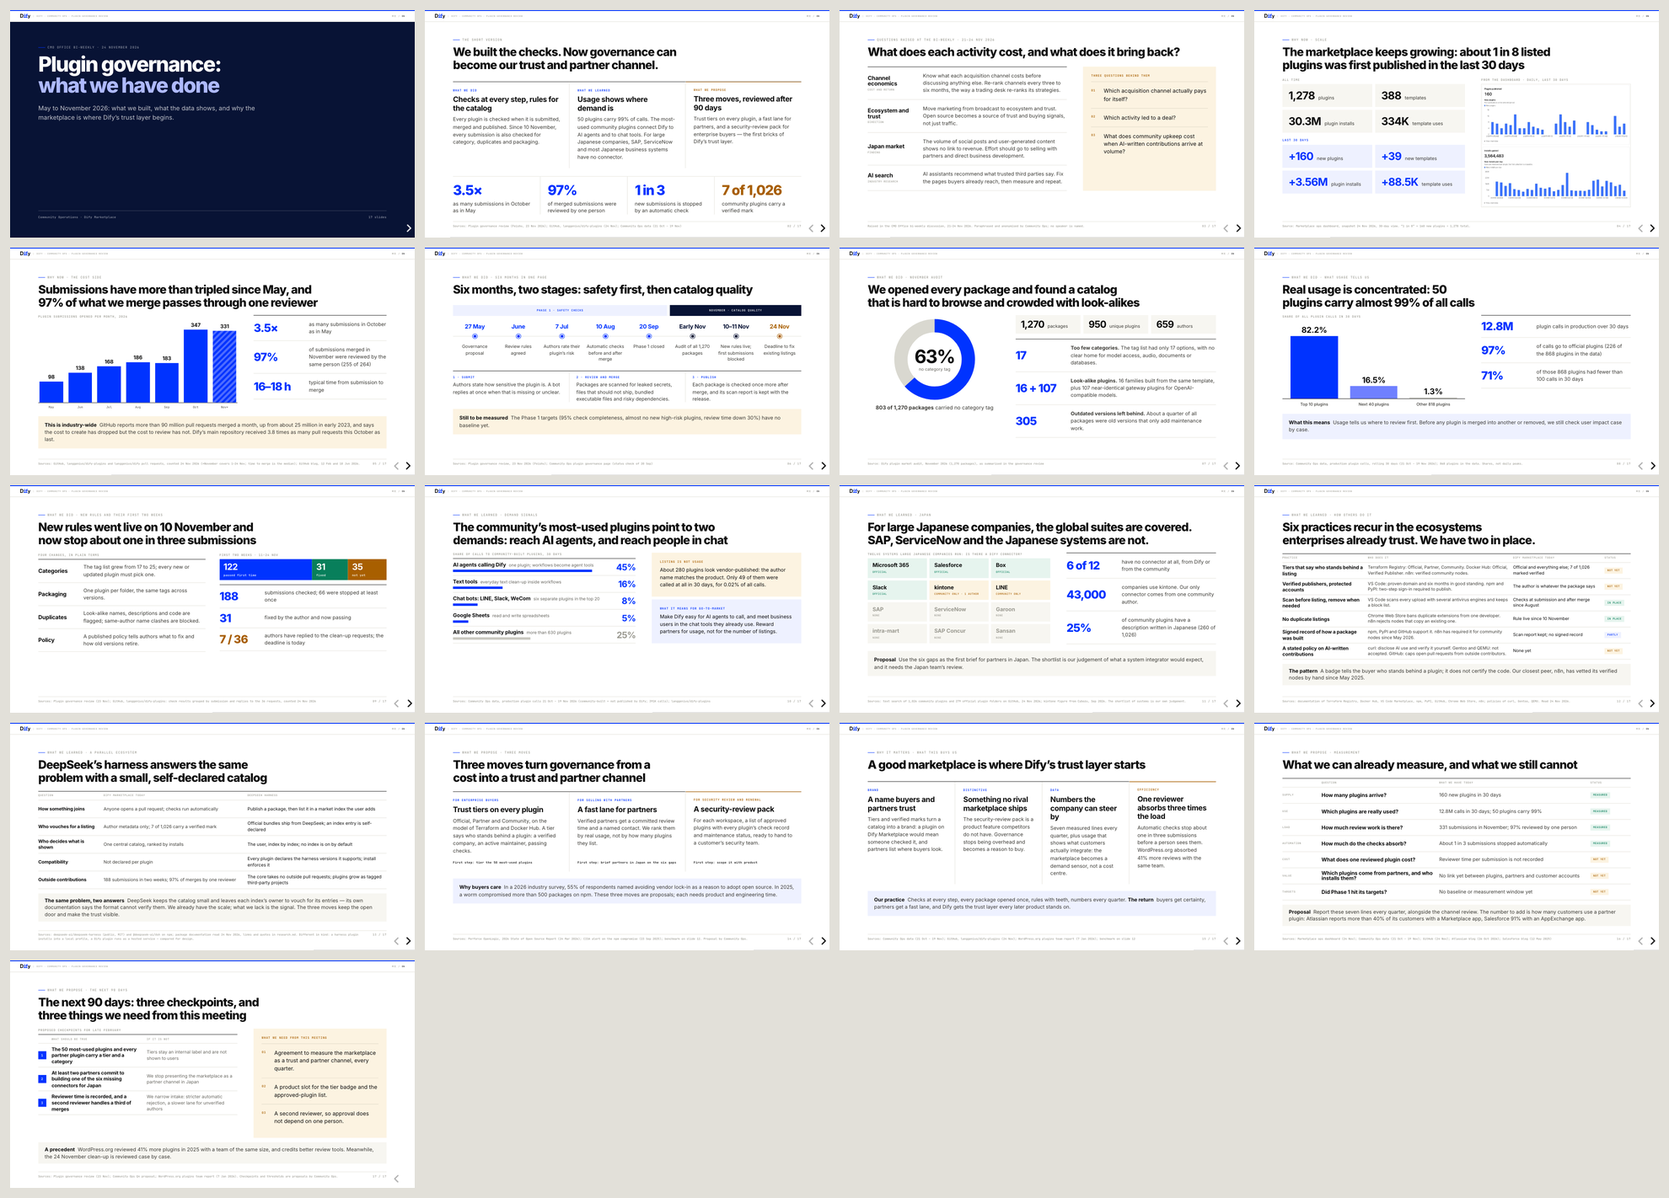
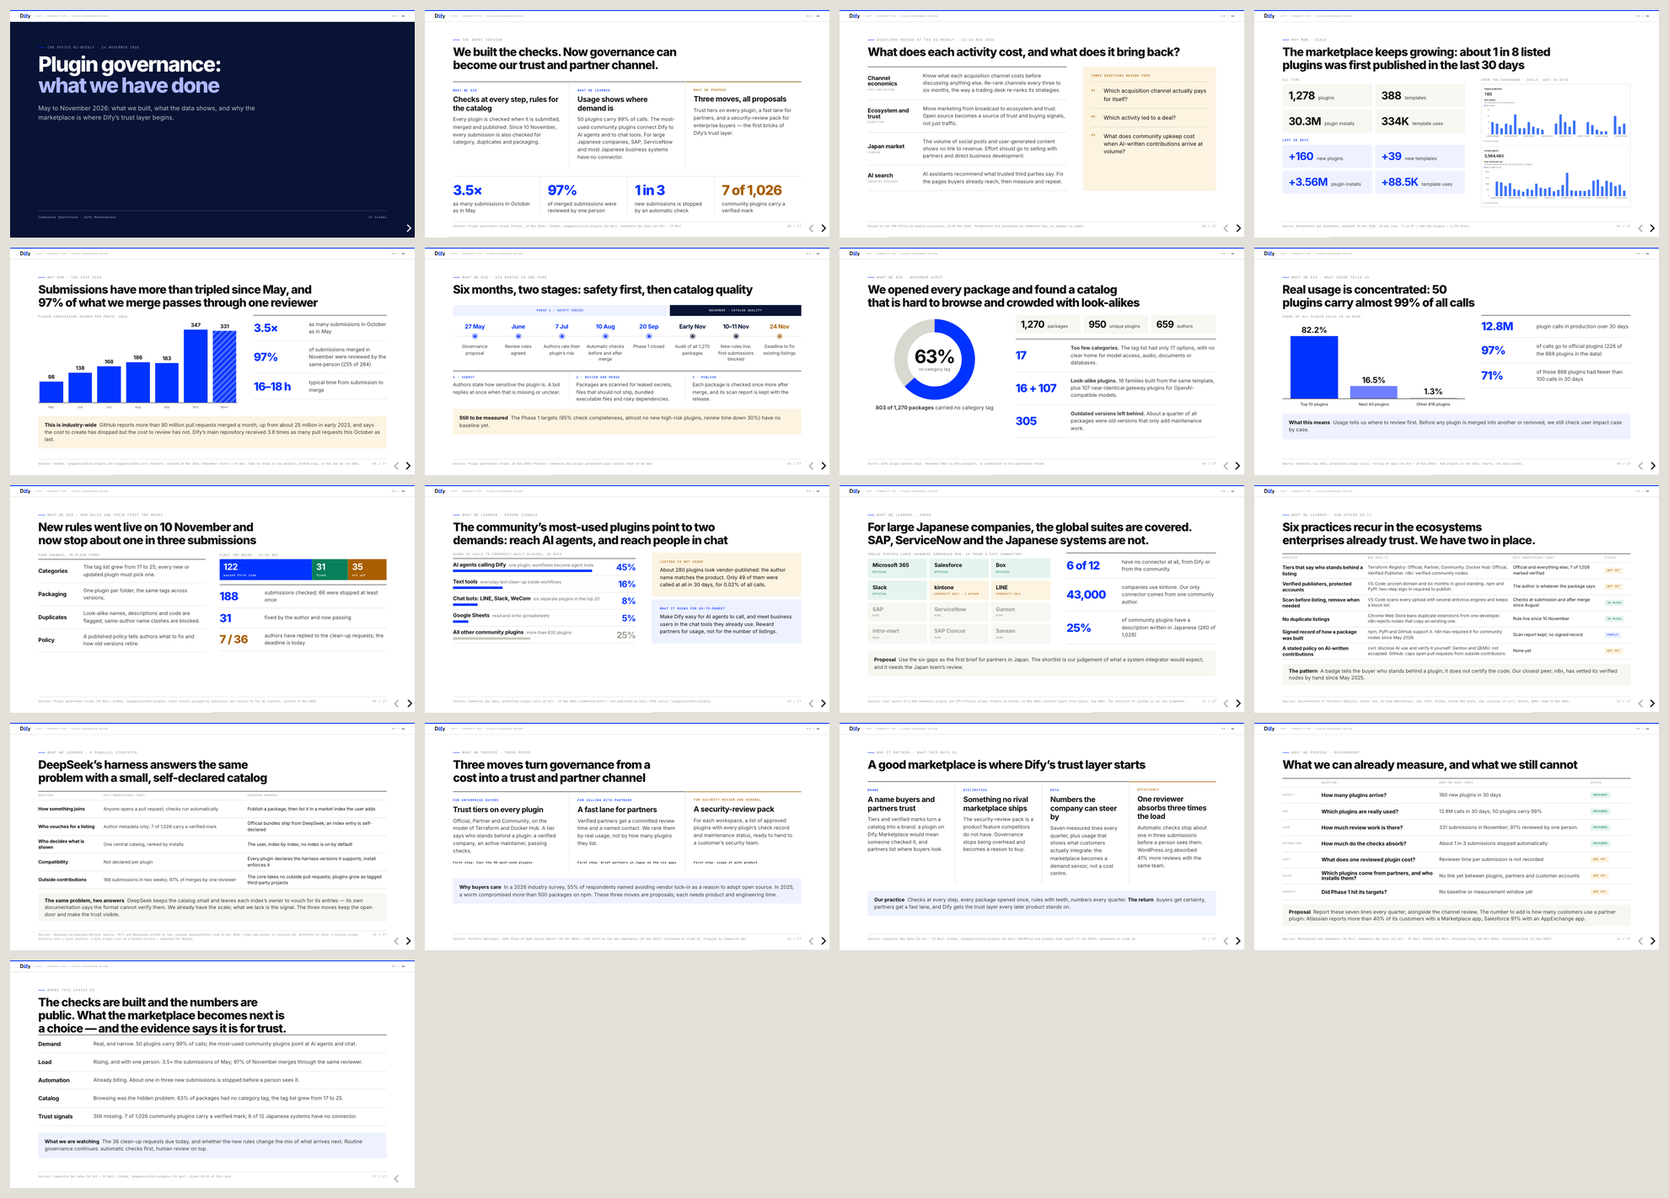
Close the deck with a statement and observations, not checkpoints and asks
Slide 17 no longer carries the 90-day checkpoints or the three asks. It is
now a statement — the checks are built, the numbers are public, and what the
marketplace becomes next is a choice the evidence points at trust — followed
by five observations (demand, load, automation, catalog, trust signals), each
traceable to an earlier slide, and a line on what we are watching next.

The summary slide no longer promises a 90-day review of the three moves; they
are presented as proposals, as they are.

Changed region(s): [[0.0, 0.8354, 0.2465, 0.9902], [0.4005, 0.0619, 0.4621, 0.1238]]

diff --git a/plugin-governance-review/index_en.html b/plugin-governance-review/index_en.html
@@ -39,7 +39,7 @@
       <div class="grid c3 panes">
         <div class="pane"><span class="label blue">What we did</span><strong>Checks at every step, rules for the catalog</strong><p>Every plugin is checked when it is submitted, merged and published. Since 10 November, every submission is also checked for category, duplicates and packaging.</p></div>
         <div class="pane"><span class="label blue">What we learned</span><strong>Usage shows where demand is</strong><p>50 plugins carry 99% of calls. The most-used community plugins connect Dify to AI agents and to chat tools. For large Japanese companies, SAP, ServiceNow and most Japanese business systems have no connector.</p></div>
-        <div class="pane amber"><span class="label amber">What we propose</span><strong>Three moves, reviewed after 90 days</strong><p>Trust tiers on every plugin, a fast lane for partners, and a security-review pack for enterprise buyers — the first bricks of Dify’s trust layer.</p></div>
+        <div class="pane amber"><span class="label amber">What we propose</span><strong>Three moves, all proposals</strong><p>Trust tiers on every plugin, a fast lane for partners, and a security-review pack for enterprise buyers — the first bricks of Dify’s trust layer.</p></div>
       </div>
       <div class="grid c4 stats">
         <div class="stat sm"><b>3.5×</b><span>as many submissions in October as in May</span></div>
@@ -306,25 +306,12 @@
 
     <!-- 17 -->
     <section data-slide-id="s17-next">
-      <div class="eyebrow">What we propose · The next 90 days</div>
-      <h2>The next 90 days: three checkpoints, and three things we need from this meeting</h2>
-      <div class="split s-60" style="margin-top:34px">
-        <div>
-          <span class="label">Proposed checkpoints for late February</span>
-          <div class="score" style="margin-top:14px"><div class="sc gate head"><span></span><span>What should be true</span><span>If it is not</span></div><div class="sc gate"><b class="gn">1</b><strong>The 50 most-used plugins and every partner plugin carry a tier and a category</strong><p>Tiers stay an internal label and are not shown to users</p></div><div class="sc gate"><b class="gn">2</b><strong>At least two partners commit to building one of the six missing connectors for Japan</strong><p>We stop presenting the marketplace as a partner channel in Japan</p></div><div class="sc gate"><b class="gn">3</b><strong>Reviewer time is recorded, and a second reviewer handles a third of merges</strong><p>We narrow intake: stricter automatic rejection, a slower lane for unverified authors</p></div></div>
-        </div>
-        <div class="box amber">
-          <span class="label amber">What we need from this meeting</span>
-          <ol class="pain">
-            <li>Agreement to measure the marketplace as a trust and partner channel, every quarter.</li>
-            <li>A product slot for the tier badge and the approved-plugin list.</li>
-            <li>A second reviewer, so approval does not depend on one person.</li>
-          </ol>
-        </div>
-      </div>
-      <div class="band tightband"><b>A precedent</b>&nbsp; WordPress.org reviewed 41% more plugins in 2025 with a team of the same size, and credits better review tools. Meanwhile, the 24 November clean-up is reviewed case by case.</div>
-      <div class="source-bar"><span>Sources: Plugin governance review (23 Nov); Community Ops Q4 proposal; WordPress.org plugins team report (7 Jan 2026). Checkpoints and thresholds are proposals by Community Ops.</span><span>17 / 17</span></div>
-      <aside class="notes">The checkpoints follow the same habit as the industry research shared at the bi-weekly: state what should be true in 90 days and what changes if it is not. The thresholds are starting points for discussion, not commitments. Routine governance continues through automatic checks plus human review. Bot pre-check and a cool-down for repeat offenders stay in requirements review; likes and ratings have simple limits today, and trusted ranking still needs its own evidence.</aside>
+      <div class="eyebrow">Where this leaves us</div>
+      <h2>The checks are built and the numbers are public. What the marketplace becomes next is a choice — and the evidence says it is for trust.</h2>
+      <div class="rows"><div class="row"><b>Demand</b><p>Real, and narrow. 50 plugins carry 99% of calls; the most-used community plugins point at AI agents and chat.</p></div><div class="row"><b>Load</b><p>Rising, and with one person. 3.5× the submissions of May; 97% of November merges through the same reviewer.</p></div><div class="row"><b>Automation</b><p>Already biting. About one in three new submissions is stopped before a person sees it.</p></div><div class="row"><b>Catalog</b><p>Browsing was the hidden problem. 63% of packages had no category tag; the tag list grew from 17 to 25.</p></div><div class="row"><b>Trust signals</b><p>Still missing. 7 of 1,026 community plugins carry a verified mark; 6 of 12 Japanese systems have no connector.</p></div></div>
+      <div class="band tint"><b>What we are watching</b>&nbsp; The 36 clean-up requests due today, and whether the new rules change the mix of what arrives next. Routine governance continues: automatic checks first, human review on top.</div>
+      <div class="source-bar"><span>Sources: Community Ops data (21 Oct – 19 Nov); GitHub, langgenius/dify-plugins (24 Nov); slides 05–13 of this deck</span><span>17 / 17</span></div>
+      <aside class="notes">The deck closes without asks on purpose: a statement, then five observations, each traceable to an earlier slide — demand (08, 10), load (05), automation (09), the catalog audit (07), trust signals (11, 12). What we are watching next: the 36 author clean-up requests due 24 Nov, and whether the rules change the mix of new submissions. The three moves on slide 14 remain proposals; nothing on this slide is scoped, staffed or agreed.</aside>
     </section>
 
   </div></div>

diff --git a/plugin-governance-review/index.html b/plugin-governance-review/index.html
@@ -39,7 +39,7 @@
       <div class="grid c3 panes">
         <div class="pane"><span class="label blue">做了什么</span><strong>每个环节有检查，目录有规则</strong><p>插件在提交、合并、发布三个环节都要过检查。11 月 10 日起，每次提交还要过分类、查重、打包三道规则。</p></div>
         <div class="pane"><span class="label blue">看到了什么</span><strong>调用数据告诉我们需求在哪</strong><p>50 个插件承担了 99% 的调用。社区里用得最多的插件，是把 Dify 接到 AI Agent 和聊天工具上的。面向日本大企业，SAP、ServiceNow 和多数日本本土系统还没有连接器。</p></div>
-        <div class="pane amber"><span class="label amber">提议做什么</span><strong>三个动作，90 天后回看</strong><p>给每个插件标上信任层级，给伙伴开一条快速通道，给企业买家备一份安全评审材料包——Dify 信任层的第一批砖。</p></div>
+        <div class="pane amber"><span class="label amber">提议做什么</span><strong>三个动作，都是提议</strong><p>给每个插件标上信任层级，给伙伴开一条快速通道，给企业买家备一份安全评审材料包——Dify 信任层的第一批砖。</p></div>
       </div>
       <div class="grid c4 stats">
         <div class="stat sm"><b>3.5×</b><span>10 月的提交量是 5 月的 3.5 倍</span></div>
@@ -306,25 +306,12 @@
 
     <!-- 17 -->
     <section data-slide-id="s17-next">
-      <div class="eyebrow">提议做什么 · 接下来 90 天</div>
-      <h2>接下来 90 天：三个检验点，以及需要这次会议定下的三件事</h2>
-      <div class="split s-60" style="margin-top:34px">
-        <div>
-          <span class="label">提议的检验点，2 月下旬回看</span>
-          <div class="score" style="margin-top:14px"><div class="sc gate head"><span></span><span>应该成立的事</span><span>如果不成立</span></div><div class="sc gate"><b class="gn">1</b><strong>调用量前 50 的插件和所有伙伴插件都有层级和分类</strong><p>层级只作内部标签，不对用户展示</p></div><div class="sc gate"><b class="gn">2</b><strong>至少两家伙伴承诺开发日本六个空缺连接器中的一个</strong><p>在日本不再把市场当作伙伴渠道来讲</p></div><div class="sc gate"><b class="gn">3</b><strong>审核工时有记录，第二位审核人承担三分之一的合并</strong><p>收紧入口：更严格的自动拒绝，未核实作者走慢通道</p></div></div>
-        </div>
-        <div class="box amber">
-          <span class="label amber">需要这次会议定下的事</span>
-          <ol class="pain">
-            <li>同意把市场当作信任渠道和伙伴渠道来度量，每季度一次。</li>
-            <li>给层级徽章和“已批准插件”清单排一个产品档期。</li>
-            <li>增加第二位审核人，让审批不再只靠一个人。</li>
-          </ol>
-        </div>
-      </div>
-      <div class="band tightband"><b>可参照的先例</b>&nbsp; WordPress.org 2025 年多审了 41% 的插件，团队规模没变，官方归功于工具改进。11 月 24 日到期的整改正在逐条复核。</div>
-      <div class="source-bar"><span>来源：插件治理阶段回顾（11 月 23 日）；Community Ops Q4 提案；WordPress.org 插件团队年度报告（2026 年 1 月 7 日）。检验点和阈值是 Community Ops 的提议。</span><span>17 / 17</span></div>
-      <aside class="notes">检验点的写法沿用双周会上那份行业调研的习惯：写明 90 天后应该成立什么、不成立时改什么。阈值是讨论的起点，不是承诺。日常治理继续走自动检查加人工审核。机器人预检查和重复违规作者冷却仍在需求评审阶段；Like / Rating 已有简单限制，可信排名仍需各自的证据。</aside>
+      <div class="eyebrow">收尾</div>
+      <h2>检查已经建好，数字已经摆在外面。这个市场接下来是什么，取决于我们怎么定——而证据指向信任。</h2>
+      <div class="rows"><div class="row"><b>需求</b><p>真实而集中。50 个插件承担 99% 的调用；社区里用得最多的，指向 AI Agent 和聊天工具。</p></div><div class="row"><b>审核量</b><p>在涨，而且压在一个人身上。提交量是 5 月的 3.5 倍；11 月合并的 97% 出自同一位审核人。</p></div><div class="row"><b>自动化</b><p>已经开始咬住。约三分之一的新提交，在被人看到之前就被拦下。</p></div><div class="row"><b>目录</b><p>“难找”曾是隐性问题。63% 的包没有分类标签；标签表已从 17 个扩到 25 个。</p></div><div class="row"><b>信任信号</b><p>仍然缺失。1,026 个社区插件里只有 7 个带认证标记；日本 12 个常用系统里 6 个没有连接器。</p></div></div>
+      <div class="band tint"><b>接下来在看什么</b>&nbsp; 今天到期的 36 条整改请求，以及新规则会不会改变新提交的构成。日常治理不变：先过自动检查，再上人工审核。</div>
+      <div class="source-bar"><span>来源：Community Ops 数据（10 月 21 日–11 月 19 日）；GitHub，langgenius/dify-plugins（11 月 24 日）；本 deck 第 05–13 页</span><span>17 / 17</span></div>
+      <aside class="notes">这一页刻意不提要求：一个结论，加五条观察，每条都能追溯到前面的页——需求（08、10），审核量（05），自动化（09），目录审计（07），信任信号（11、12）。接下来在看：11 月 24 日到期的 36 条作者整改请求，以及规则会不会改变新提交的构成。第 14 页的三个动作仍然是提议；这一页没有任何一项已定范围、已排人或已获同意。</aside>
     </section>
 
   </div></div>

diff --git a/plugin-governance-review/source-map.md b/plugin-governance-review/source-map.md
@@ -10,16 +10,16 @@
 
 | Slides | Source | Use | Boundary |
 |---|---|---|---|
-| `s02`, `s06`, `s07`, `s09`, `s17` | Plugin governance review, Feishu, 23 Nov 2026 | Timeline, Phase 1 deliverables, audit findings, November rules | Internal review document; figures are as stated there. |
-| `s03`, `s14`, `s16`, `s17` | CMO Office Bi-Weekly group discussion and attached research, 21–24 Nov 2026 | The questions raised, and the reasoning behind each proposed move | Paraphrased and anonymised by Community Ops: no speaker or team is named, and no claim is made about what leadership wants. |
+| `s02`, `s06`, `s07`, `s09` | Plugin governance review, Feishu, 23 Nov 2026 | Timeline, Phase 1 deliverables, audit findings, November rules | Internal review document; figures are as stated there. |
+| `s03`, `s14`, `s16` | CMO Office Bi-Weekly group discussion and attached research, 21–24 Nov 2026 | The questions raised, and the reasoning behind each proposed move | Paraphrased and anonymised by Community Ops: no speaker or team is named, and no claim is made about what leadership wants. |
 | `s04` | Marketplace ops dashboard, snapshot 24 Nov 2026, 30-day view | Totals and 30-day gains | Read from a screenshot. "1 in 8" is derived. |
-| `s02`, `s08`, `s10`, `s14` | Community Ops data: production plugin calls, 21 Oct – 19 Nov 2026 | 12.83M calls, 868 plugins, concentration, community share | Rolling 30-day window; the last day is partial. Read shares, not daily peaks. |
-| `s02`, `s05`, `s09`, `s16` | GitHub, [langgenius/dify-plugins](https://github.com/langgenius/dify-plugins) and [langgenius/dify](https://github.com/langgenius/dify), counted 24 Nov 2026 | Submissions per month, reviewer concentration, time to merge, check outcomes, replies to requests | See counting rules below. |
-| `s02`, `s10`, `s11`, `s12` | Package metadata of 1,026 plugins in langgenius/dify-plugins and 279 plugin folders in [langgenius/dify-official-plugins](https://github.com/langgenius/dify-official-plugins), 24 Nov 2026 | Verified mark, vendor-published heuristic, connector coverage, Japanese descriptions | See counting rules below. |
+| `s02`, `s08`, `s10`, `s14`, `s17` | Community Ops data: production plugin calls, 21 Oct – 19 Nov 2026 | 12.83M calls, 868 plugins, concentration, community share | Rolling 30-day window; the last day is partial. Read shares, not daily peaks. |
+| `s02`, `s05`, `s09`, `s16`, `s17` | GitHub, [langgenius/dify-plugins](https://github.com/langgenius/dify-plugins) and [langgenius/dify](https://github.com/langgenius/dify), counted 24 Nov 2026 | Submissions per month, reviewer concentration, time to merge, check outcomes, replies to requests | See counting rules below. |
+| `s02`, `s10`, `s11`, `s12`, `s17` | Package metadata of 1,026 plugins in langgenius/dify-plugins and 279 plugin folders in [langgenius/dify-official-plugins](https://github.com/langgenius/dify-official-plugins), 24 Nov 2026 | Verified mark, vendor-published heuristic, connector coverage, Japanese descriptions | See counting rules below. |
 | `s13` | [deepseek-ai/deepseek-harness](https://github.com/deepseek-ai/deepseek-harness) (public, MIT) and [@deepseek-ai/dsh on npm](https://registry.npmjs.org/@deepseek-ai/dsh); package documentation and CONTRIBUTING.md, read 24 Nov 2026 | How a parallel agent-harness ecosystem lists plugins, signals trust and declares compatibility | Quotes and links in [research.md](research.md), section 8. A harness plugin installs into a local profile and a Dify plugin runs as a hosted service: compared for design, not like for like. |
 | `s15` | Community Ops data (21 Oct – 19 Nov); GitHub, langgenius/dify-plugins (24 Nov); [WordPress.org plugins team](https://make.wordpress.org/plugins/2026/01/07/a-year-in-the-plugins-team-2025/) | The four returns: brand, distinctive features, data, efficiency | Internal figures as elsewhere in the deck; WordPress.org is context. No claim that governance caused growth. |
 | `s12` | [Terraform Registry](https://developer.hashicorp.com/terraform/registry/providers), [Docker Hub trusted content](https://docs.docker.com/docker-hub/image-library/trusted-content/), VS Code Marketplace, npm, PyPI, GitHub and Chrome Web Store documentation; contribution policies of curl, Gentoo and QEMU | How other ecosystems signal trust | Each practice was read on the provider's own documentation on 24 Nov 2026; quotes and links are in [research.md](research.md). n8n is included as the closest peer. |
-| `s05`, `s14`, `s15`, `s16`, `s17` | Public sources quoted in [research.md](research.md): GitHub blog, WordPress.org plugins team, Perforce, CISA, Atlassian, Salesforce | Industry context for review load, buyer concerns and marketplace attach rates | Quoted from the linked pages on 24 Nov 2026. Context only; not evidence about Dify. |
+| `s05`, `s14`, `s15`, `s16` | Public sources quoted in [research.md](research.md): GitHub blog, WordPress.org plugins team, Perforce, CISA, Atlassian, Salesforce | Industry context for review load, buyer concerns and marketplace attach rates | Quoted from the linked pages on 24 Nov 2026. Context only; not evidence about Dify. |
 | `s11` | Vendor-stated adoption figures in [research.md](research.md), section 6 | Why each system is on the Japan list | Definitions differ between vendors; SAP and ServiceNow have no verified Japan figure. |
 | `s12` | [Marketplace Curation Policy](https://github.com/langgenius/dify-plugins/blob/main/docs/marketplace-curation-policy.md) | Our own duplicate rule | Public document. |
 
@@ -46,4 +46,6 @@
 - No claim about what leadership wants: slide `s03` presents the questions raised at the bi-weekly, paraphrased and anonymised.
 - No like-for-like product claim against DeepSeek Harness: slide `s13` compares ecosystem design only, and the two plugins differ in kind.
 - No claim on slide `s15` beyond the internal figures used elsewhere in the deck and the WordPress.org context.
+- Slide `s17` makes no ask, sets no threshold and proposes nothing: it states what the data shows and what we are watching next.
+- Slide `s17` makes no ask, sets no threshold and proposes nothing: it states what the data shows and what we are watching next.
 - No partner-sourced revenue benchmark: none could be confirmed with its sample size.

diff --git a/plugin-governance-review/README.md b/plugin-governance-review/README.md
@@ -12,7 +12,7 @@ A 17-slide review of Dify plugin governance from May to November 2026, written f
 | Why now | 03–05 | The questions raised at the bi-weekly, marketplace scale, growth in submissions and reviewer concentration |
 | What we did | 06–09 | Six months in one page, November audit, usage concentration, new rules and their first two weeks |
 | What we learned | 10–13 | Demand signals from community plugins, connector coverage for large Japanese companies, how other ecosystems signal trust, and a side-by-side read of DeepSeek Harness |
-| What we propose | 14–17 | Three moves, what the work buys the company, measurement scorecard, 90-day checkpoints and asks |
+| What we propose | 14–17 | Three moves, what the work buys the company, measurement scorecard, and a closing statement with what we are watching |
 
 ## Files
 
@@ -28,7 +28,8 @@ A 17-slide review of Dify plugin governance from May to November 2026, written f
 ## Evidence boundaries
 
 - Slide 03 paraphrases an internal discussion. It contains no direct quotations and it is anonymised: no speaker, team or role is named, and the slide presents the questions raised rather than any claim about what leadership wants.
-- Slides 14 and 17 are proposals by Community Ops. Nothing on them is scoped, staffed or agreed, and the 90-day thresholds are starting points for discussion.
+- Slide 14 is a proposal by Community Ops. Nothing on it is scoped, staffed or agreed.
+- Slide 17 makes no ask and sets no threshold. It is a statement plus five observations, each traceable to an earlier slide, and it names what we are watching next.
 - Slide 13 compares ecosystem design with DeepSeek Harness, a public agent runtime. A harness plugin installs into a local profile and a Dify plugin runs as a hosted service; the slide makes no like-for-like product claim.
 - Slide 15 frames the same internal figures used elsewhere as four returns — brand, distinctive features, data, efficiency. No outside revenue or growth claim is made.
 - "1 in 8" on slide 04 is derived (160 new plugins ÷ 1,278 total).

diff --git a/plugin-governance-review/research.md b/plugin-governance-review/research.md
@@ -39,7 +39,7 @@ We found no GitHub feature that labels AI-written pull requests. That is "none f
 
 The official registry for MCP servers has been in preview since 8 September 2025. It verifies who owns a name (by GitHub login or DNS record) but states that "consumers should assume minimal-to-no moderation" ([MCP Registry moderation policy](https://modelcontextprotocol.io/registry/moderation-policy)).
 
-## 3. The review load is industry-wide (slides 5 and 17)
+## 3. The review load is industry-wide (slides 5 and 15)
 
 | Fact | Quote from the source | Source |
 |---|---|---|
